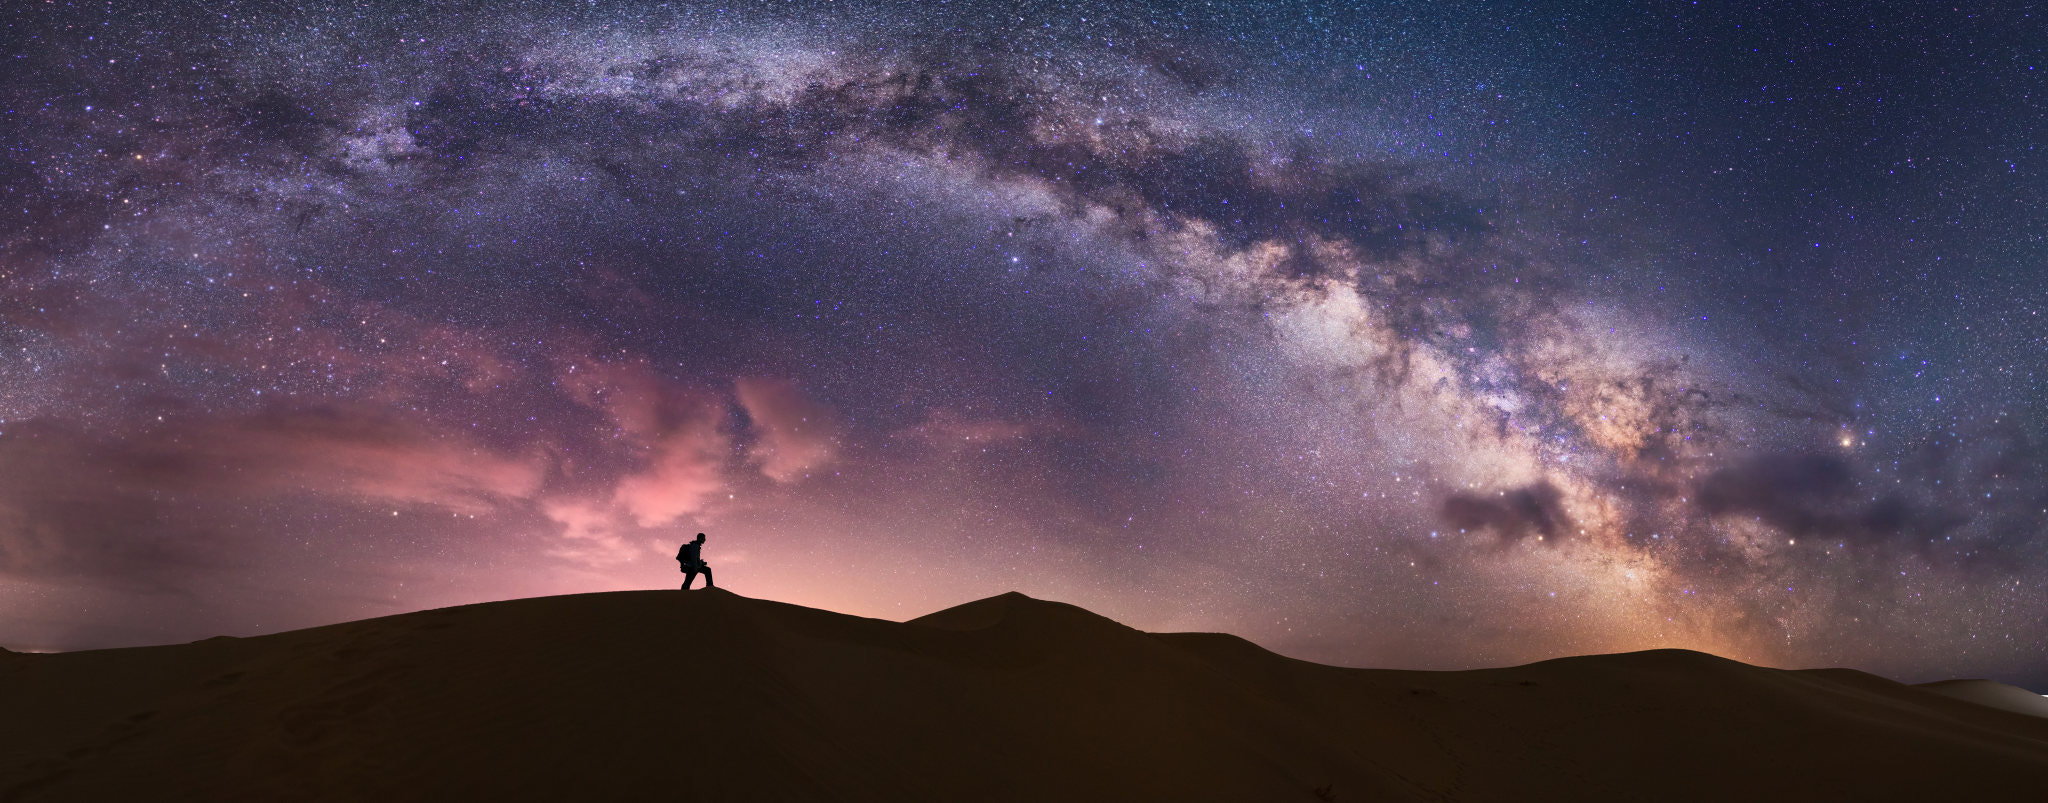
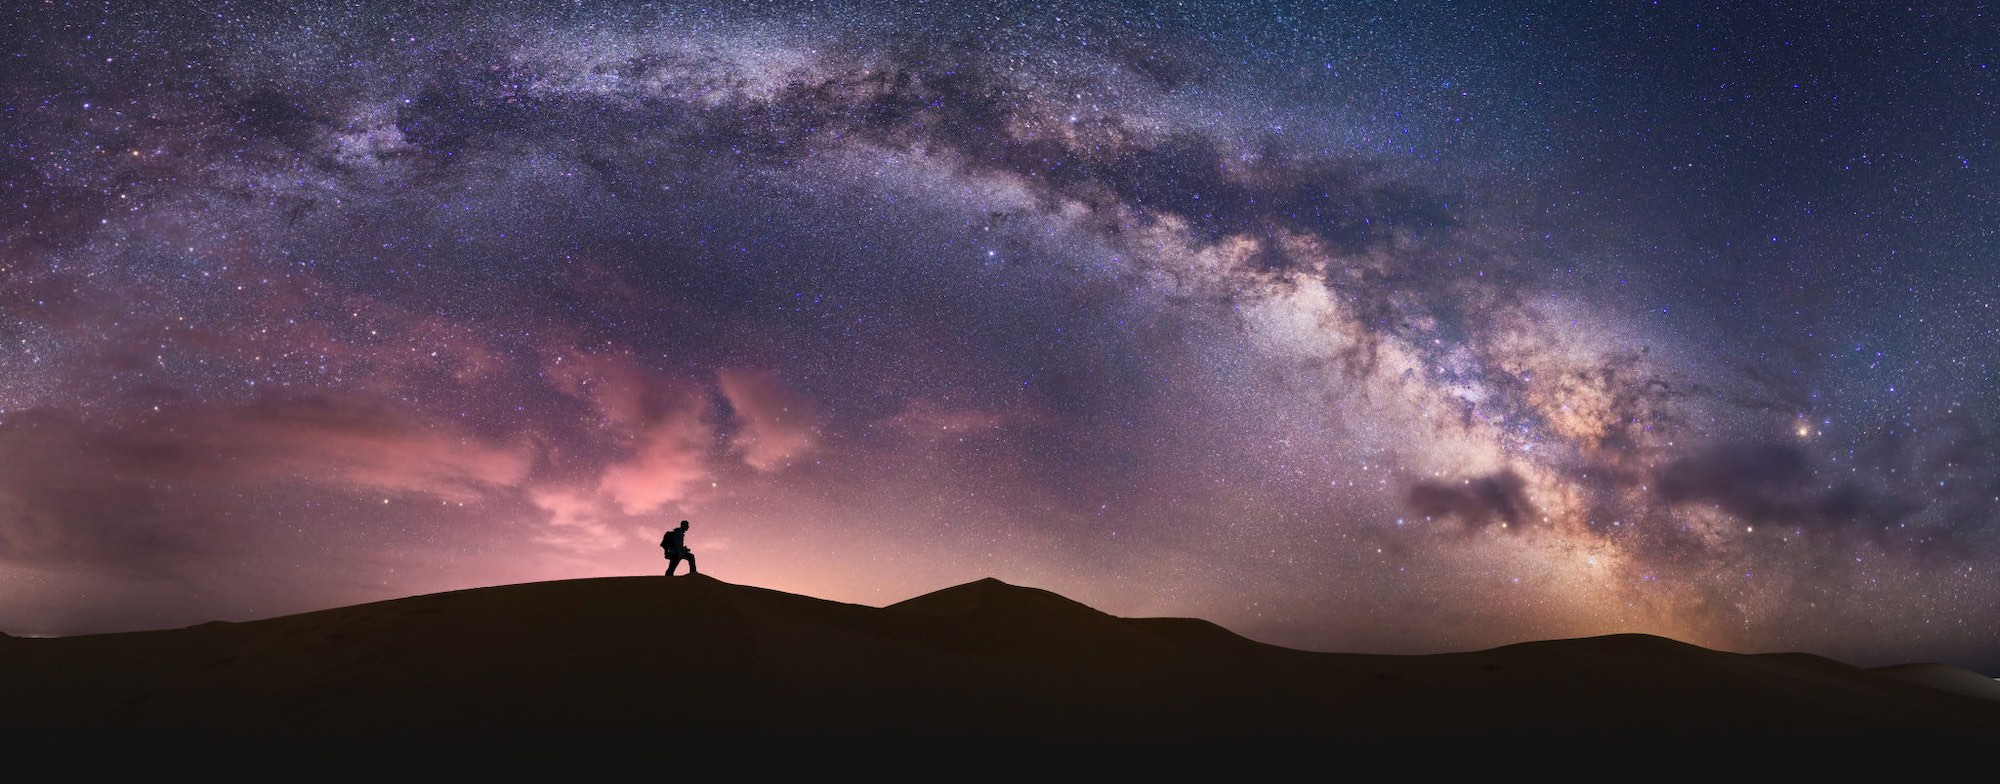
Update main image

Changed region(s): [[0.744, 0.7959, 0.868, 0.8265], [0.961, 0.8571, 1.0, 0.8878]]

diff --git a/assets/css/style.css b/assets/css/style.css
@@ -14,10 +14,10 @@ body {
 	margin: 0;
 	font-family: "Crimson Text", Helvetica, Times, serif;
 	font-size: 24px;
-    background-image: linear-gradient(to top, #111111, rgba(34,21,13,0.2)), url(../images/main.jpg);
-    background-size: 100% 10%, cover;
-    background-repeat: no-repeat, no-repeat;
-    background-position: bottom, center;
+    background-image: url(../images/main.jpg);
+    background-size: cover;
+    background-repeat: no-repeat;
+    background-position: center;
     background-color: #111111;
 }
 
